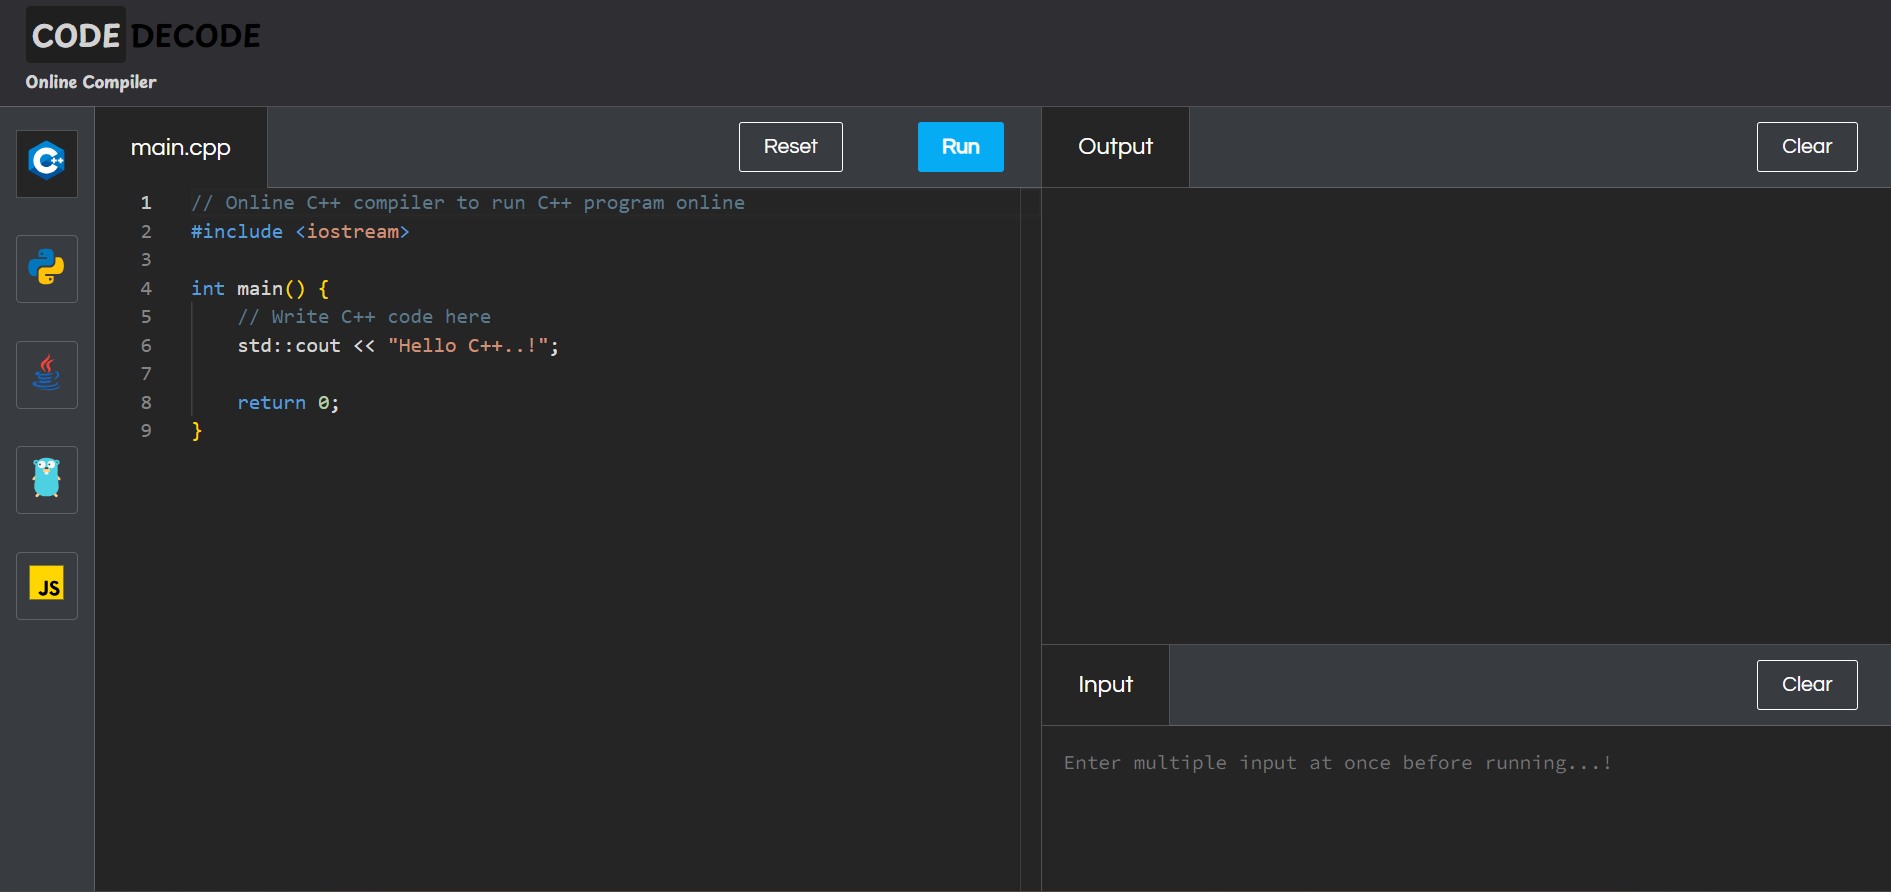
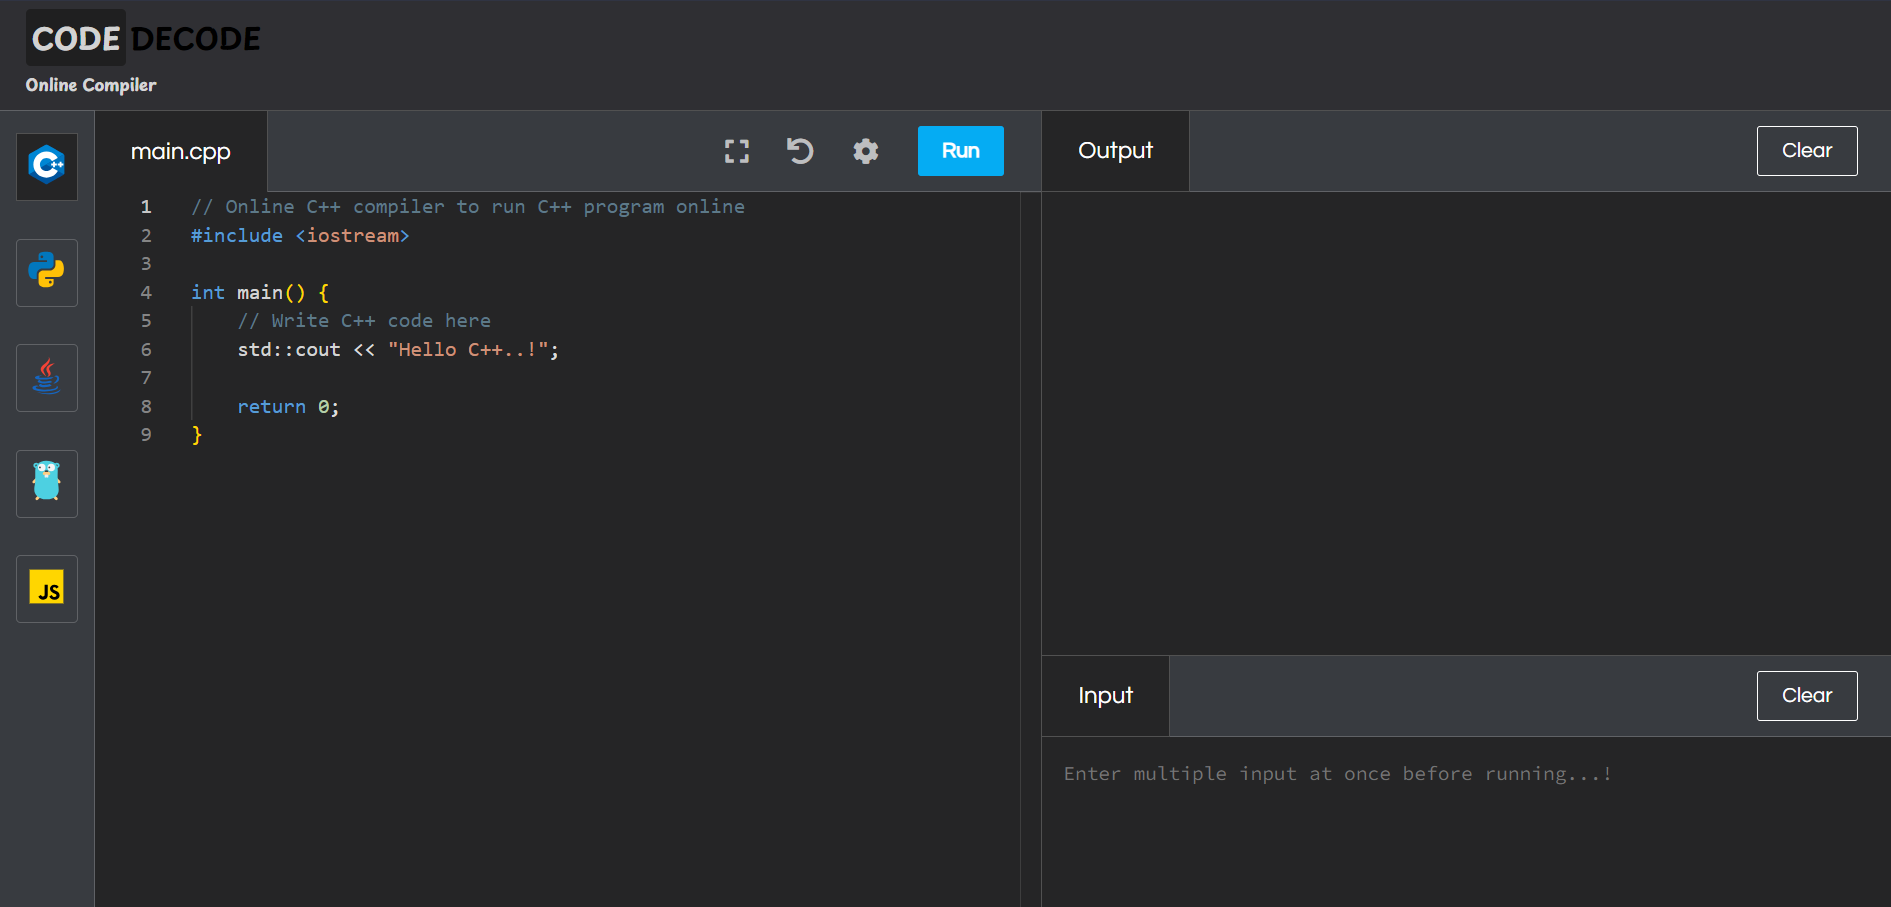
fixed editor topbar wrapper & added homepage

diff --git a/frontend/src/components/MainEditor/MainEditor.module.css b/frontend/src/components/MainEditor/MainEditor.module.css
@@ -82,7 +82,7 @@
 	background: #383b40;
 	width: 100%;
 	border-bottom: 1px solid rgba(255, 255, 255, 0.2);
-	padding: 8px 10px;
+	padding: 18px 10px;
 	font-size: 12px;
 	/* font-family: "Gill Sans", "Gill Sans MT", Calibri, "Trebuchet MS", sans-serif; */
 	font-family: "Source Code Pro", monospace;
